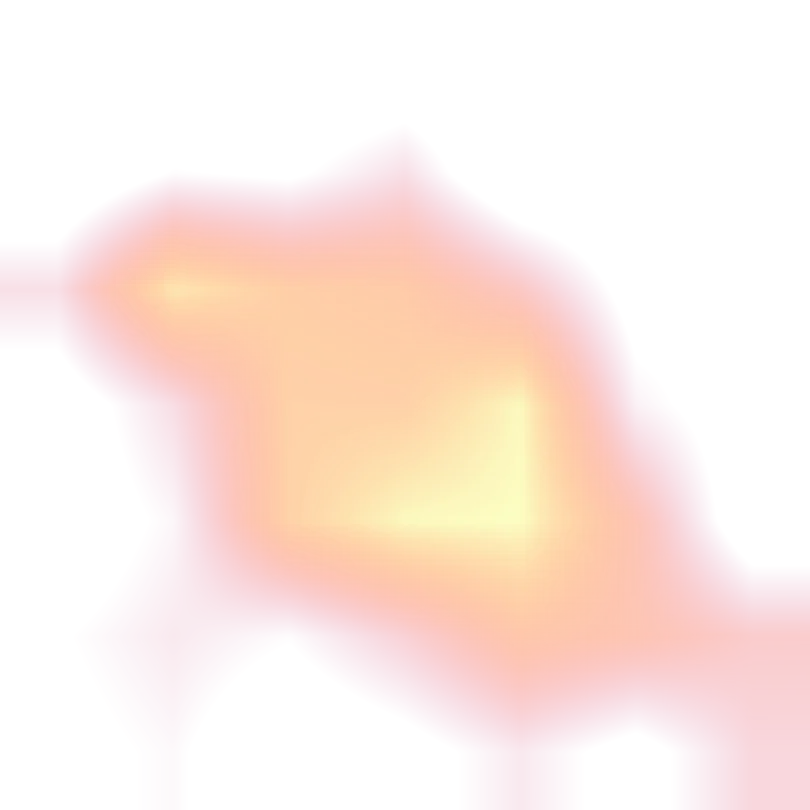
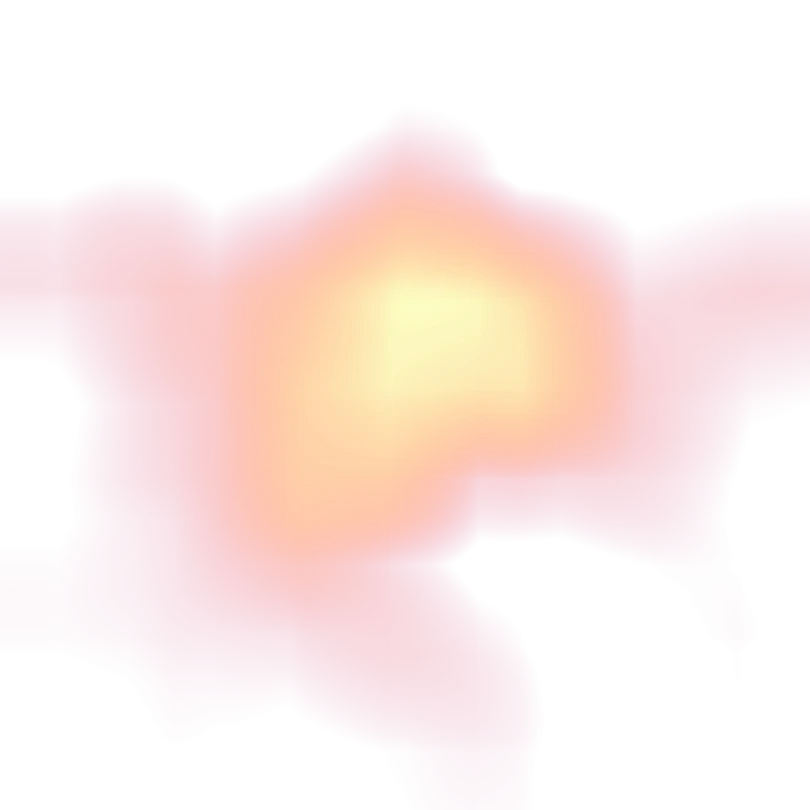
Sharpen the heatmap, mark its strongest areas and add a no-clear-match result
The heatmap now combines Grad-CAM with an occlusion test, pins follow the strongest areas including those near the edge, and results under 50% confidence are shown as a list of possibilities instead of a single answer.

diff --git a/static/js/analyzer.js b/static/js/analyzer.js
@@ -40,6 +40,8 @@ function displayName(label) {
   return CLASS_DISPLAY_NAMES[label] || label;
 }
 
+const CLEAR_MATCH = 0.5;
+
 function pct(value) {
   const p = value * 100;
   return p < 1 ? 'under 1%' : Math.round(p) + '%';
@@ -165,7 +167,7 @@ function pct(value) {
   document.querySelectorAll('[data-source]').forEach((b) => b.addEventListener('click', () => selectSource(b.dataset.source)));
 
   function resetResult() {
-    ['resultPlate', 'heatControls', 'heatLegend', 'resultSummary', 'resultNotice', 'trustLine'].forEach((id) => $(id).classList.add('hidden'));
+    ['resultPlate', 'heatControls', 'heatLegend', 'heatNote', 'resultSummary', 'resultNotice', 'trustLine'].forEach((id) => $(id).classList.add('hidden'));
     $('emptyPlate').classList.remove('hidden');
     $('resultPlate').querySelectorAll('.pin').forEach((p) => p.remove());
     $('resultPlate').classList.remove('heat-off');
@@ -190,11 +192,17 @@ function pct(value) {
     }
 
     const top = data.top1;
-    $('topLabel').textContent = displayName(top.label);
+    const clear = top.confidence >= CLEAR_MATCH;
+    $('resultKicker').textContent = clear ? 'Most likely' : 'Result';
+    $('topLabel').textContent = clear ? displayName(top.label) : 'No clear match';
     $('topConf').textContent = pct(top.confidence);
+    $('topConf').classList.toggle('hidden', !clear);
+    $('resultHint').textContent = clear ? '' : 'The model is not sure what this photo shows. Try a closer, sharper photo of the affected skin in daylight.';
+    $('resultHint').classList.toggle('hidden', clear);
+    $('listTitle').textContent = clear ? 'Other possibilities' : 'Possibilities';
     const list = $('differential');
     list.innerHTML = '';
-    (data.top5 || []).slice(1, 5).forEach((item) => {
+    (data.top5 || []).slice(clear ? 1 : 0, 5).forEach((item) => {
       const li = document.createElement('li');
       const name = document.createElement('span');
       name.textContent = displayName(item.label);
@@ -214,7 +222,7 @@ function pct(value) {
     $('resultPhoto').src = xai.images.photo;
     $('resultHeat').src = xai.images.heat;
     const plate = $('resultPlate');
-    (xai.pins || []).forEach(([x, y], i) => {
+    (clear ? xai.pins || [] : []).forEach(([x, y], i) => {
       const pin = document.createElement('div');
       pin.className = 'pin';
       pin.style.left = x + '%';
@@ -228,14 +236,18 @@ function pct(value) {
     plate.classList.remove('hidden');
     $('heatControls').classList.remove('hidden');
     $('heatLegend').classList.remove('hidden');
+    if (!clear) {
+      $('heatNote').textContent = 'The heatmap shows what influenced the first possibility, ' + displayName(top.label).toLowerCase() + '.';
+      $('heatNote').classList.remove('hidden');
+    }
 
     const f = xai.faithfulness;
     const healthy = top.label === 'Heathy' || top.label === 'Healthy';
-    if (f && !healthy) {
+    if (f && clear && !healthy) {
       const copy = {
         strong: ['\u2714', 'The model really used the highlighted area.', 'Covering it made the model much less sure.'],
         moderate: ['~', 'The highlighted area mattered, but so did the rest of the photo.', ''],
-        weak: ['!', 'The model may have used something other than the highlighted area,', 'such as the background. Treat this result with extra caution.']
+        weak: ['!', 'The highlighted area does not explain this answer well.', 'The model also relied on other parts of the photo. Treat this result with extra caution.']
       }[f.verdict];
       if (copy) {
         const mark = $('trustMark');

diff --git a/templates/index.html b/templates/index.html
@@ -19,7 +19,7 @@
 </div>
 </div>
 <figure class="plate" style="color: #FFFFFF; margin: 0" data-heat-scope>
-{% include "partials/plate.html" with photo=hand heat=hand_heat alt="Back of a hand and wrist with a red, raised rash" ax="61.2" ay="61.6" bx="23.7" by="36.2" loading="eager" %}
+{% include "partials/plate.html" with photo=hand heat=hand_heat alt="Back of a hand and wrist with a red, raised rash" ax="52.0" ay="39.5" loading="eager" %}
 <div class="controls">{% include "partials/heat_toggle.html" %}</div>
 <div class="legend" aria-hidden="true" style="color: #E9E9E5"><span>Little influence</span><i></i><span>Most influence</span></div>
 <figcaption style="margin-top: 18px; max-width: 36em">
@@ -49,15 +49,15 @@
 </div>
 <div class="plates">
 <figure class="plate">
-{% include "partials/plate.html" with photo=knee heat=knee_heat alt="Raised pale welts on a knee" ax="62.9" ay="37.5" %}
+{% include "partials/plate.html" with photo=knee heat=knee_heat alt="Raised pale welts on a knee" ax="63.2" ay="37.3" %}
 <figcaption class="answer" style="margin-top: 14px">The model's answer: <strong>hives (urticaria)</strong>, 92% sure</figcaption>
 </figure>
 <figure class="plate">
-{% include "partials/plate.html" with photo=forearm heat=forearm_heat alt="Forearm with a red, scaly rash" ax="49.6" ay="64.7" %}
+{% include "partials/plate.html" with photo=forearm heat=forearm_heat alt="Forearm with a red, scaly rash" ax="48.4" ay="66.3" bx="34.2" by="37.3" %}
 <figcaption class="answer" style="margin-top: 14px">The model's answer: <strong>eczema</strong>, 94% sure</figcaption>
 </figure>
 <figure class="plate">
-{% include "partials/plate.html" with photo=legs heat=legs_heat alt="Lower legs with small red-brown spots" ax="34.4" ay="47.3" bx="63.4" by="48.7" %}
+{% include "partials/plate.html" with photo=legs heat=legs_heat alt="Lower legs with small red-brown spots" ax="28.3" ay="38.6" %}
 <figcaption class="answer" style="margin-top: 14px">The model's answer: <strong>vasculitis</strong>, 97% sure</figcaption>
 </figure>
 </div>

diff --git a/templates/analyzer.html b/templates/analyzer.html
@@ -80,6 +80,7 @@
 </div>
 <div class="controls hidden" id="heatControls">{% include "partials/heat_toggle.html" %}</div>
 <div class="hidden" id="heatLegend">{% include "partials/legend.html" %}</div>
+<p class="small muted hidden" id="heatNote" style="margin: 14px 0 0"></p>
 <div class="trust-line hidden" id="trustLine">
 <p><span class="trust-mark" id="trustMark" aria-hidden="true"></span><span><strong id="trustTitle"></strong> <span id="trustText"></span></span></p>
 <details class="trust-more">
@@ -95,10 +96,11 @@
 </figure>
 
 <div id="resultSummary" class="hidden">
-<p class="muted" style="margin: 0 0 6px">Most likely</p>
+<p class="muted" id="resultKicker" style="margin: 0 0 6px"></p>
 <h2 id="topLabel" style="font-size: 34px; line-height: 1.1"></h2>
 <p id="topConf" style="font-stretch: 112%; font-weight: 300; font-size: 56px; line-height: 1; margin: 14px 0 28px; letter-spacing: -0.02em"></p>
-<h3 style="font-size: 17px; font-weight: 600; margin-bottom: 4px">Differential</h3>
+<p id="resultHint" class="hidden" style="margin: 14px 0 28px; max-width: 24em"></p>
+<h3 id="listTitle" style="font-size: 17px; font-weight: 600; margin-bottom: 4px"></h3>
 <ul class="diff" id="differential"></ul>
 </div>
 

diff --git a/classifier/xai.py b/classifier/xai.py
@@ -19,6 +19,9 @@ Faithfulness check (in the spirit of Petsiuk et al., 2018, RISE):
     equally sized random region. A map that really reflects what the model
     uses should cause a much larger drop than random.
 
+The analyser page shows a combined map: Grad-CAM sharpened by the occlusion
+map whenever covering a single patch clearly lowers the class probability.
+
 Preprocessing uses the Ultralytics classification transform itself, so the
 explanation is computed on exactly the pixels the model classifies.
 """
@@ -230,7 +233,7 @@ class YoloClsExplainer:
     def top_mask(heatmap: np.ndarray, fraction: float) -> np.ndarray:
         k = max(1, int(round(fraction * heatmap.size)))
         thr = np.partition(heatmap.ravel(), -k)[-k]
-        return heatmap >= thr
+        return (heatmap >= thr) & (heatmap > 0)
 
     def faithfulness(self, rgb: np.ndarray, heatmap: np.ndarray, class_index: int,
                      fraction: float = 0.2, n_random: int = 3, seed: int = 0) -> Dict[str, float]:
@@ -286,6 +289,25 @@ class YoloClsExplainer:
             heat[y:y + patch, x:x + patch] += (p0 - p); cnt[y:y + patch, x:x + patch] += 1
         return heat / np.maximum(cnt, 1)
 
+    def influence_map(self, x: torch.Tensor, rgb: np.ndarray, class_index: int) -> np.ndarray:
+        """Grad-CAM sharpened by occlusion, normalised to [0, 1].
+
+        The occlusion map only counts as far as covering a single patch really
+        lowers the class probability: `weight` rises from 0 (largest drop under
+        10% of the original probability, Grad-CAM alone) to 1 (40% or more,
+        geometric mean of the two maps).
+        """
+        cam = self.cams(x, class_index=class_index)["gradcam"]
+        p0 = float(self.predict_tensor(x)[0, class_index])
+        drop = np.maximum(self.occlusion(rgb, class_index), 0)
+        weight = float(np.clip((drop.max() / max(p0, 1e-6) - 0.1) / 0.3, 0, 1))
+        if weight == 0:
+            return cam
+        t = torch.from_numpy(drop)[None, None]
+        drop = _normalise_map(F.avg_pool2d(F.pad(t, (12, 12, 12, 12), mode="replicate"), 25, stride=1)[0, 0].numpy())
+        fused = _normalise_map(cam ** (1 - weight / 2) * drop ** (weight / 2))
+        return fused if float(fused.max()) > 0 else cam
+
     @staticmethod
     def rank_agreement(a: np.ndarray, b: np.ndarray, size: int = 28) -> float:
         """Spearman rank correlation between two maps (pooled to size x size)."""
@@ -323,22 +345,26 @@ class YoloClsExplainer:
         return (np.dstack([rgb, alpha]) * 255).round().astype(np.uint8)
 
     @staticmethod
-    def peaks(heatmap: np.ndarray, k: int = 2, min_gap: float = 0.22, margin: float = 0.08) -> List[List[float]]:
-        """Up to k separated hotspots as [x%, y%], ignoring the outer margin."""
+    def peaks(heatmap: np.ndarray, k: int = 2, min_gap: float = 0.25, second_min: float = 0.6) -> List[List[float]]:
+        """Up to k separated hotspots as [x%, y%], strongest first.
+
+        A further hotspot is kept only when it reaches `second_min` of the strongest.
+        """
         S = heatmap.shape[0]
         t = torch.from_numpy(heatmap.astype(np.float32))[None, None]
-        smooth = F.avg_pool2d(t, 15, stride=1, padding=7)
+        smooth = F.avg_pool2d(F.pad(t, (7, 7, 7, 7), mode="replicate"), 15, stride=1)
         local = F.max_pool2d(smooth, 61, stride=1, padding=30)
         hs = smooth[0, 0].numpy()
-        is_peak = (smooth == local)[0, 0].numpy() & (hs > 0.35 * hs.max())
-        ys, xs = np.nonzero(is_peak)
+        top = float(hs.max())
+        if top <= 0:
+            return []
+        ys, xs = np.nonzero((smooth == local)[0, 0].numpy() & (hs >= second_min * top))
         out: List[List[float]] = []
         for i in np.argsort(-hs[ys, xs]):
-            x, y = xs[i] / S, ys[i] / S
-            if min(x, y, 1 - x, 1 - y) < margin:
-                continue
+            x = float(np.clip((xs[i] + 0.5) / S, 0.04, 0.96))
+            y = float(np.clip((ys[i] + 0.5) / S, 0.04, 0.96))
             if all(np.hypot(x - a / 100, y - b / 100) > min_gap for a, b in out):
-                out.append([round(float(x) * 100, 1), round(float(y) * 100, 1)])
+                out.append([round(x * 100, 1), round(y * 100, 1)])
             if len(out) == k:
                 break
         return out
@@ -356,9 +382,10 @@ class YoloClsExplainer:
                         with_faithfulness: bool = True) -> Dict[str, object]:
         """Compact JSON-serialisable explanation for the analyser page."""
         x, rgb = self.preprocess(pil_img)
-        r = self.cams(x, class_index=class_index)
-        c = r["class_index"]
-        cam = r["gradcam"]
+        if class_index is None:
+            class_index = int(np.argmax(self.predict_tensor(x)[0]))
+        c = int(class_index)
+        cam = self.influence_map(x, rgb, c)
 
         photo = np.asarray(self.photo_crop(pil_img))
         payload = {
